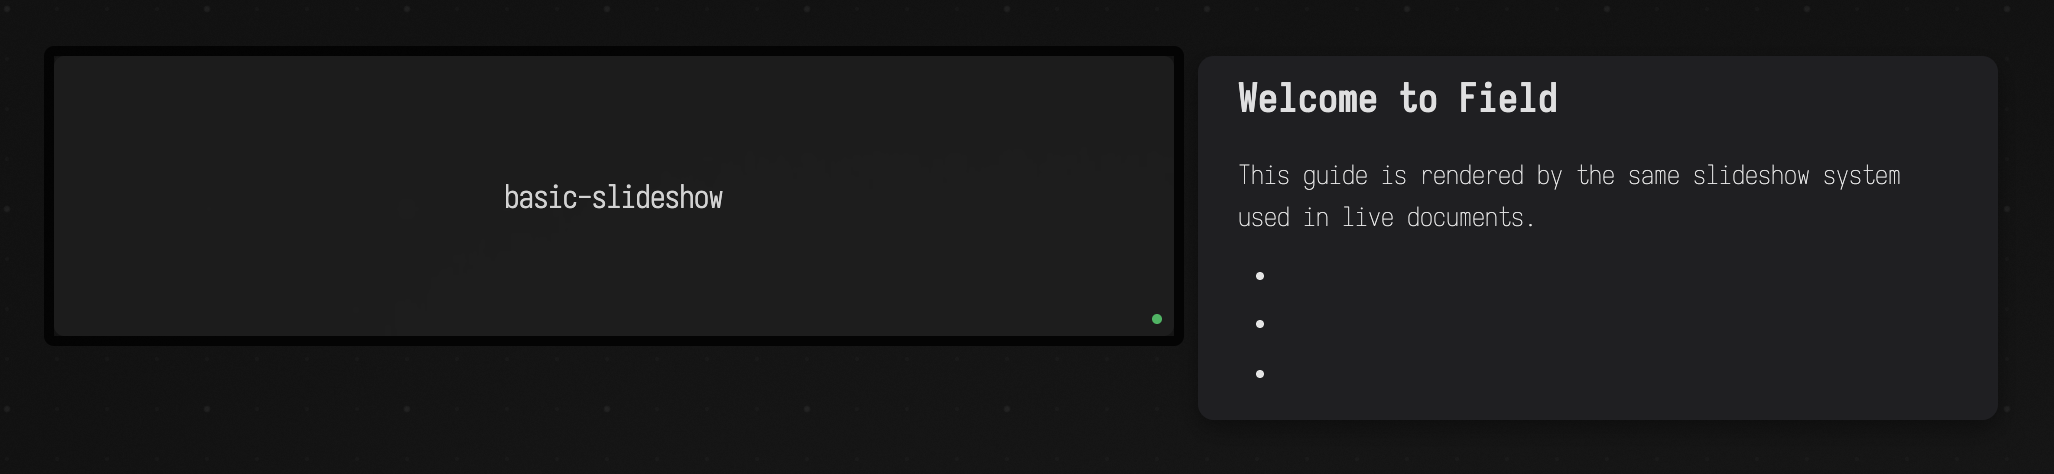
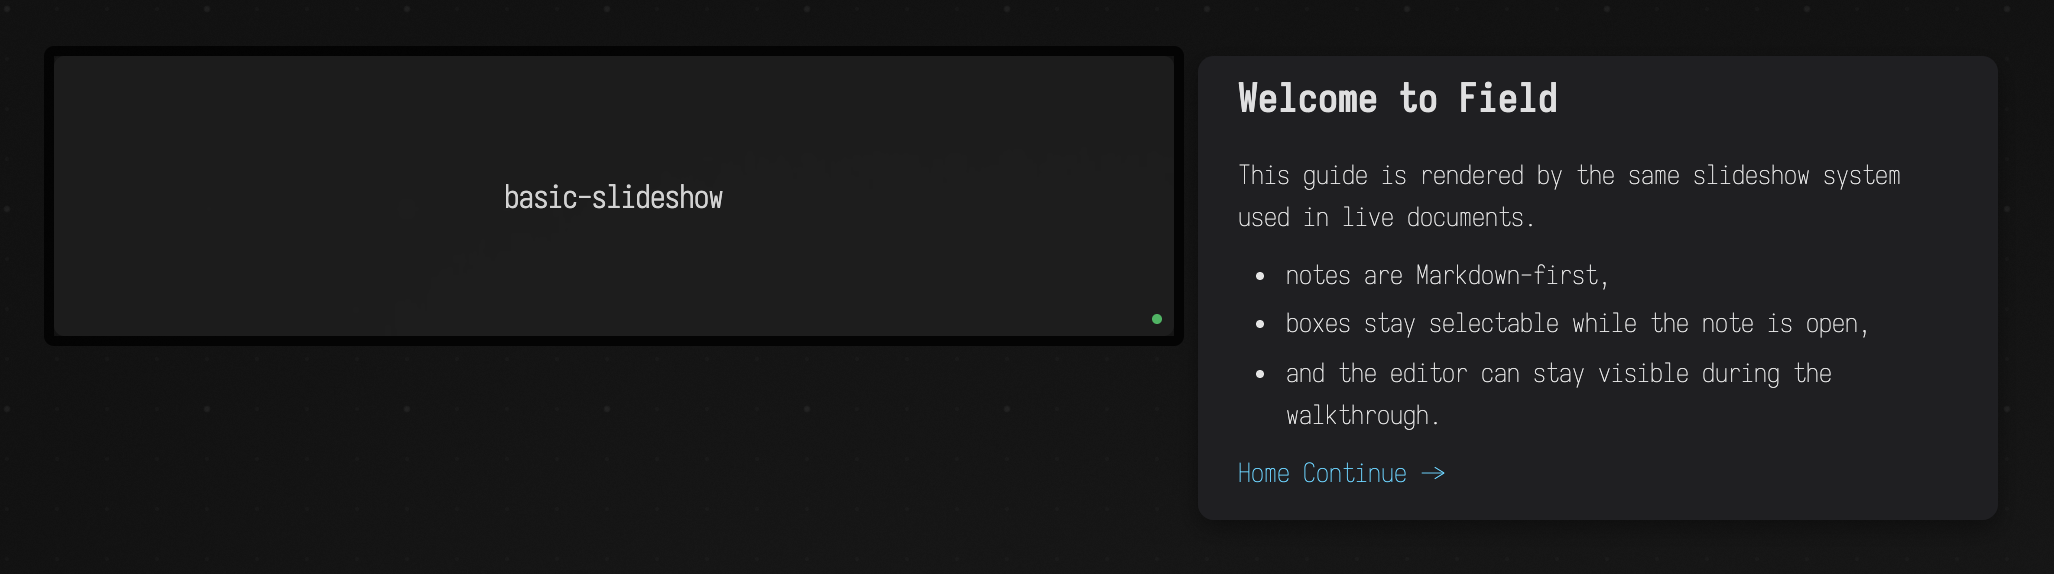
Recapture the interactive guide notes in their finished state
basic_slideshow waits out the reveal animation; callbacks_and_templates
declares its template variables in their own //%- fragment so they are in
the box's vars before show.start() renders; slide_chat drops the escaped
quotes in its raw string. Prose says when a script variable reaches a
template.

diff --git a/public/docs/interactive_guides.md b/public/docs/interactive_guides.md
@@ -65,7 +65,7 @@ That is already a working guide. It opens a note, selects a box, and leaves the 
 
 A step usually explains the current stage with a note and moves the UI to the place the note is talking about. Use `selectBox(box, property = "code")` when you already have the target box in scope, and `selectBoxByName(...)` when the guide is driving another named box in the document.
 
-```diffstatic_runner {data-lang=kotlin screenshot="assets/interactive_guides/basic_slideshow.png" wait="1.5" capture="box" outputs="none" embed=true name="basic-slideshow" w="560" h="140" padding="28" alt="The selected guide box on the left, a green running dot in its corner, and the slide note floating to its right: the heading Welcome to Field and the sentence about the slideshow system. The capture is caught part-way through the note's reveal animation, so the three bullets below show their markers with no text yet and the Home and Continue links have not appeared."}
+```diffstatic_runner {data-lang=kotlin screenshot="assets/interactive_guides/basic_slideshow.png" wait="8" capture="box" outputs="none" embed=true name="basic-slideshow" w="560" h="140" padding="28" alt="The selected guide box on the left, a green running dot in its corner, and the slide note floating to its right: the heading Welcome to Field and the sentence about the slideshow system. Below it the three bullets about notes, selectable boxes and the visible editor, then the Home and Continue links."}
 :::static
 import afield.markdownNote
 import afield.slideShow
@@ -106,7 +106,7 @@ Pair notes with view changes. A note that talks about code should leave that cod
 
 An interactive step uses a `#custom:name` link in the note body, a `linkCallback("name") { ... }` handler in the step to receive it, and `{{propertyName}}` template expansion for the live values. Together they cover choices, branching, and notes that update while the guide stays on the same step.
 
-```diffstatic_runner {data-lang=kotlin screenshot="assets/interactive_guides/callbacks_and_templates.png" wait="1.5" capture="box" outputs="none" embed=true name="callbacks-and-templates" w="560" h="140" padding="28" alt="The guide box beside its note, headed Interactive Guides with Callbacks. Three blue callback links are listed as bullets: Increment, Choose performance mode, Choose quality mode. The three template slots around them are empty in this capture: the line reads Version: with nothing after it, and the footer reads Count: Choice: with neither value filled in."}
+```diffstatic_runner {data-lang=kotlin screenshot="assets/interactive_guides/callbacks_and_templates.png" wait="1.5" capture="box" outputs="none" embed=true name="callbacks-and-templates" w="560" h="140" padding="28" alt="The guide box beside its note, headed Interactive Guides with Callbacks. Three blue callback links are listed as bullets: Increment, Choose performance mode, Choose quality mode. Above them the line reads Version: 1.0.0, and the footer reads Count: 3 and Choice: Balanced Mode."}
 :::static
 import afield.logger.lprintln
 import afield.markdownNote
@@ -118,6 +118,7 @@ var clickCount = 3
 var userChoice = "Balanced Mode"
 val version = "1.0.0"
 val host = thisBox
+//%-
 
 println("interactive guide ready")
 
@@ -167,7 +168,7 @@ runBlocking {
 }
 ```
 
-A template value can come from `this.properties[...]`, from a Kotlin variable that is still in scope, or from the shared template helpers the slideshow runtime exposes.
+A template value can come from `this.properties[...]`, from a Kotlin variable the box has already run, or from the shared template helpers the slideshow runtime exposes. A variable becomes visible to templates once the code declaring it has finished running, so the [`//%-` line](running_code.md#the-fragment-break) after the declarations matters here: it runs `version`, `clickCount` and `userChoice` as their own fragment before `show.start()` renders the first note. Without it the first note shows those slots empty.
 
 When a callback changes state, call `show.goToStep(show.currentStepIndex)` to rerender the current step immediately. That updates `{{clickCount}}` and `{{userChoice}}` without leaving the slide.
 
@@ -178,7 +179,7 @@ A step can carry its own discussion thread.
 - `withChat()` creates a thread for that slide.
 - `withChat(id = "shared-id")` shares one thread across repeated guide instances.
 
-```diffstatic_runner {data-lang=kotlin screenshot="assets/interactive_guides/slide_chat.png" wait="1.5" capture="box" outputs="none" embed=true name="slide-chat" w="560" h="140" padding="28" alt="The guide box beside a note headed Per-slide Chat, giving the two withChat forms in inline code, then a Back and Next link pair, a horizontal rule, and a collapsed Discussion disclosure with its triangle still closed. The second code span prints its quotes with literal backslashes, as backslash-quote templateId backslash-quote, because the snippet escaped them inside a Kotlin raw string."}
+```diffstatic_runner {data-lang=kotlin screenshot="assets/interactive_guides/slide_chat.png" wait="1.5" capture="box" outputs="none" embed=true name="slide-chat" w="560" h="140" padding="28" alt="The guide box beside a note headed Per-slide Chat, giving the two withChat forms in inline code, then a Back and Next link pair, a horizontal rule, and a collapsed Discussion disclosure with its triangle still closed."}
 :::static
 import afield.markdownNote
 import afield.slideShow
@@ -197,7 +198,7 @@ val show = slideShow {
             ## Per-slide Chat
             Use `withChat()` when a slide should carry its own discussion.
 
-            Use `withChat(id = \"templateId\")` when multiple template instances should share one thread.
+            Use `withChat(id = "templateId")` when multiple template instances should share one thread.
 
             [[back]] [[next]]
             """.trimIndent()
